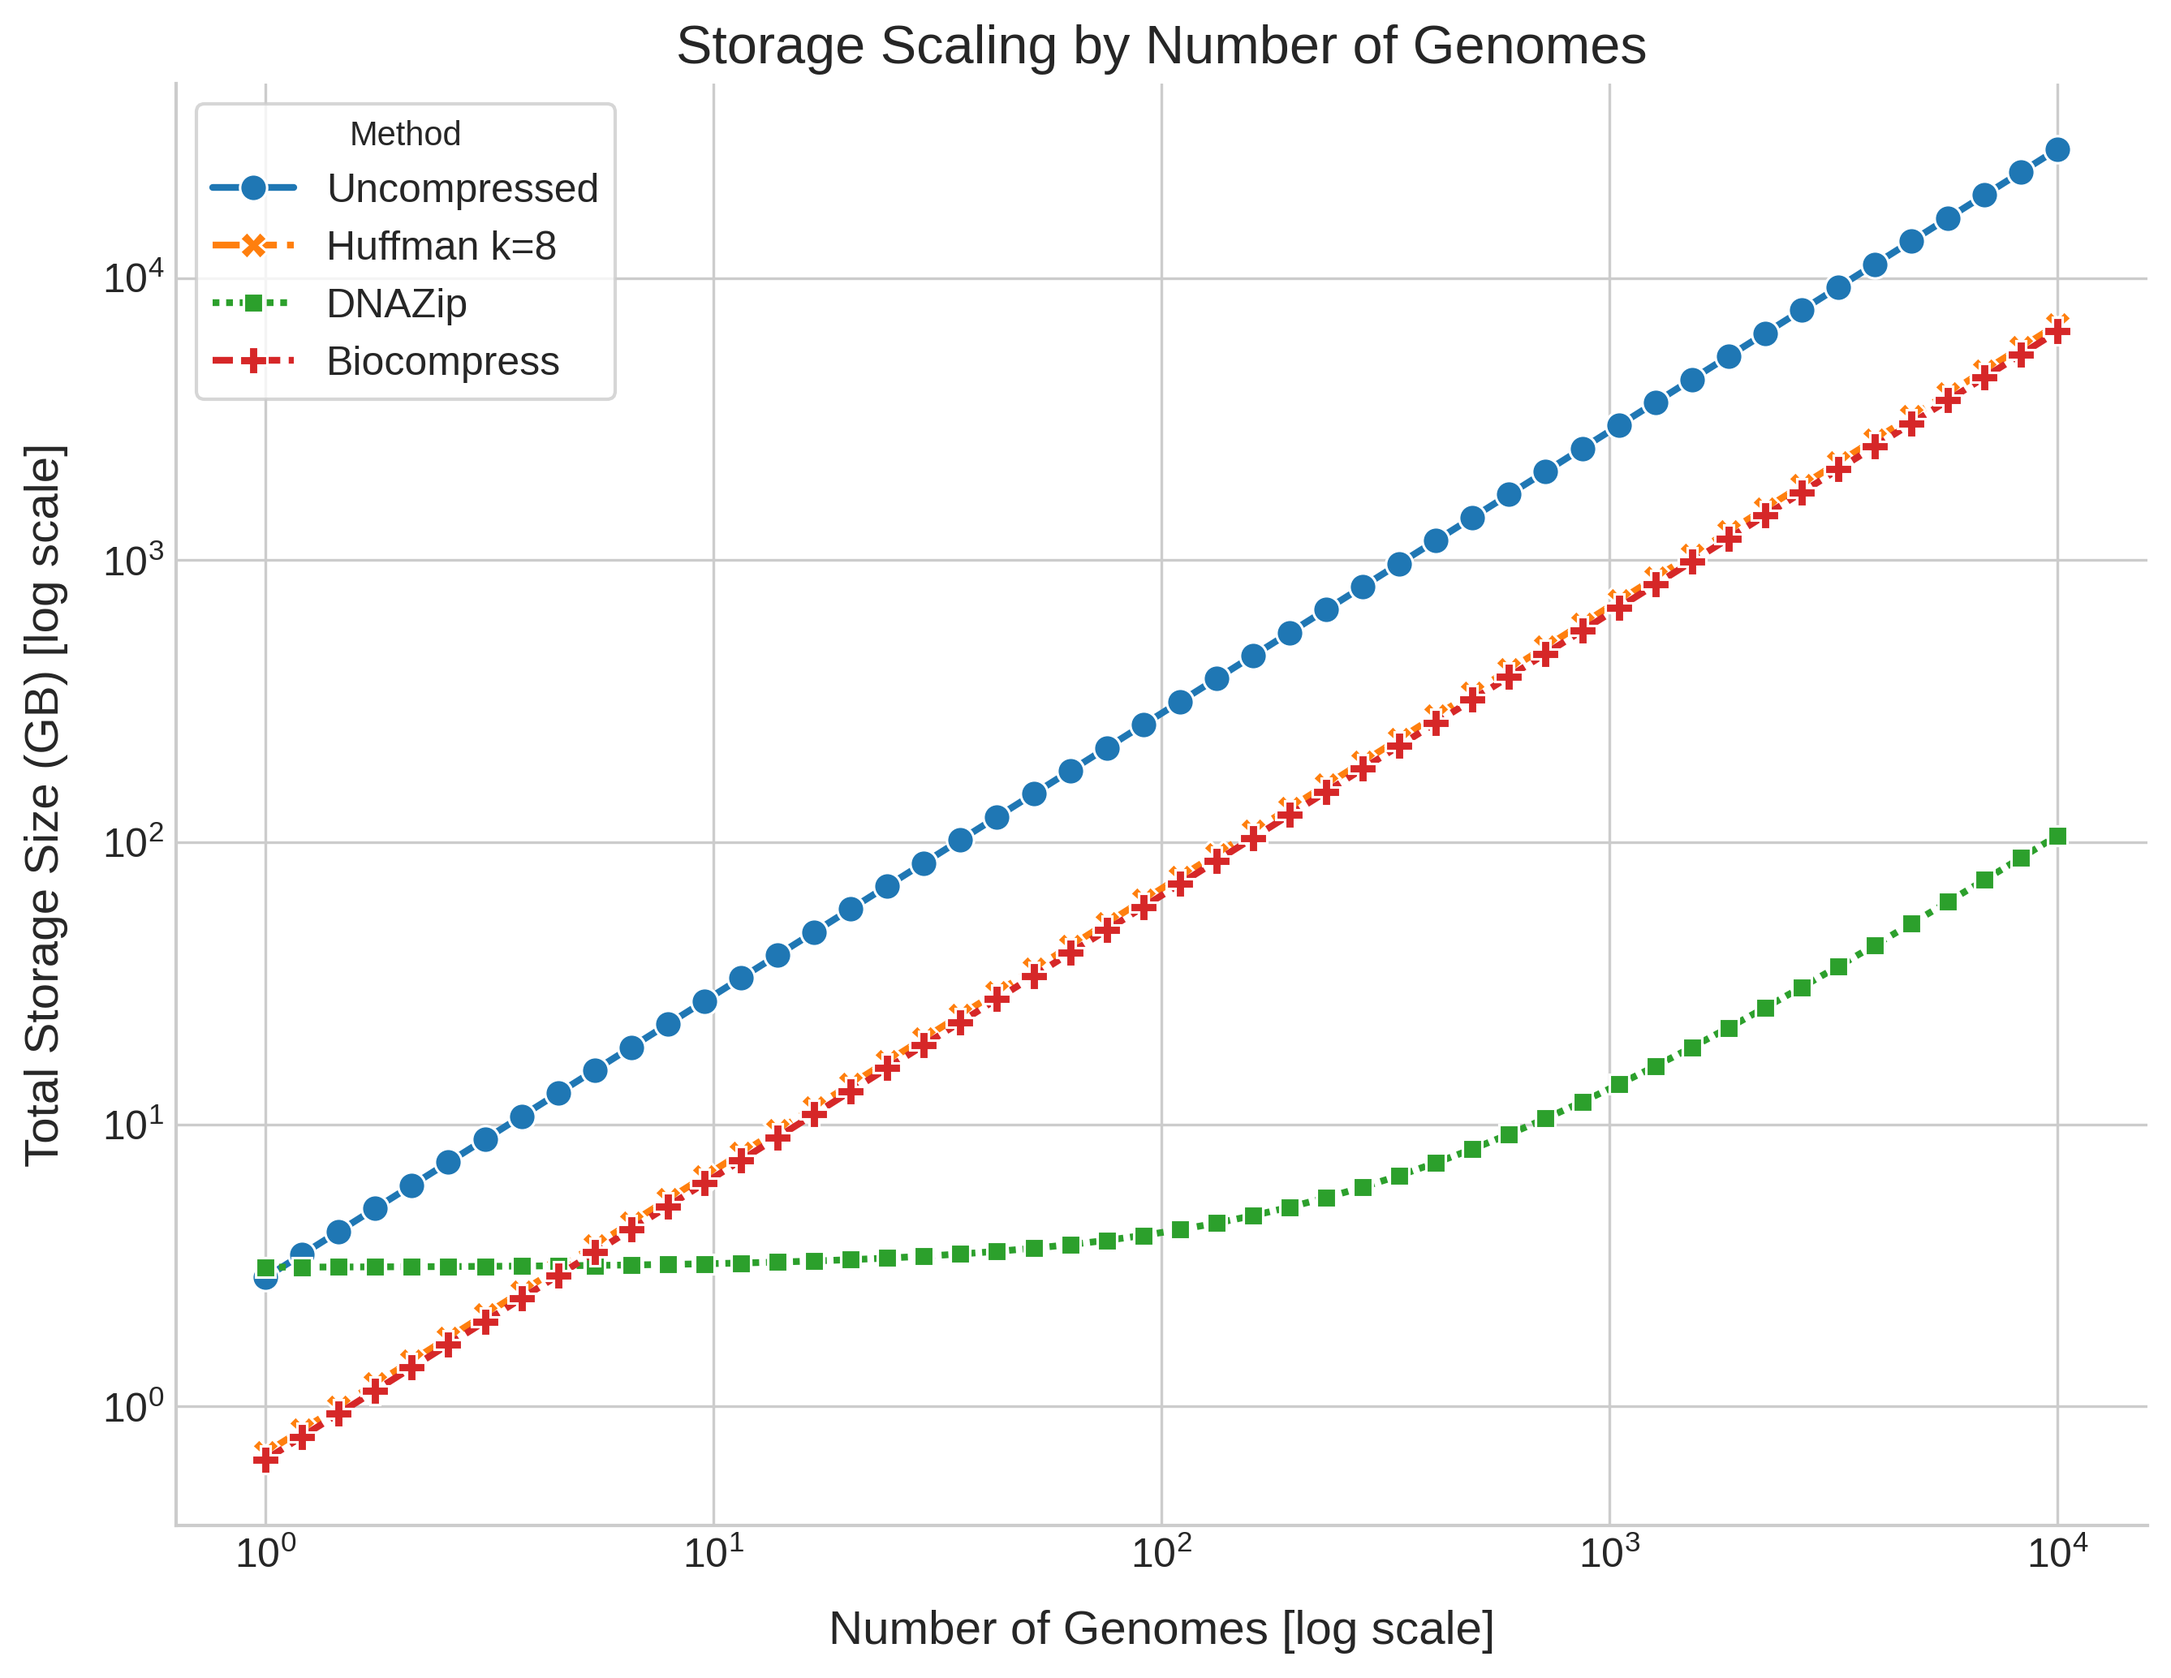
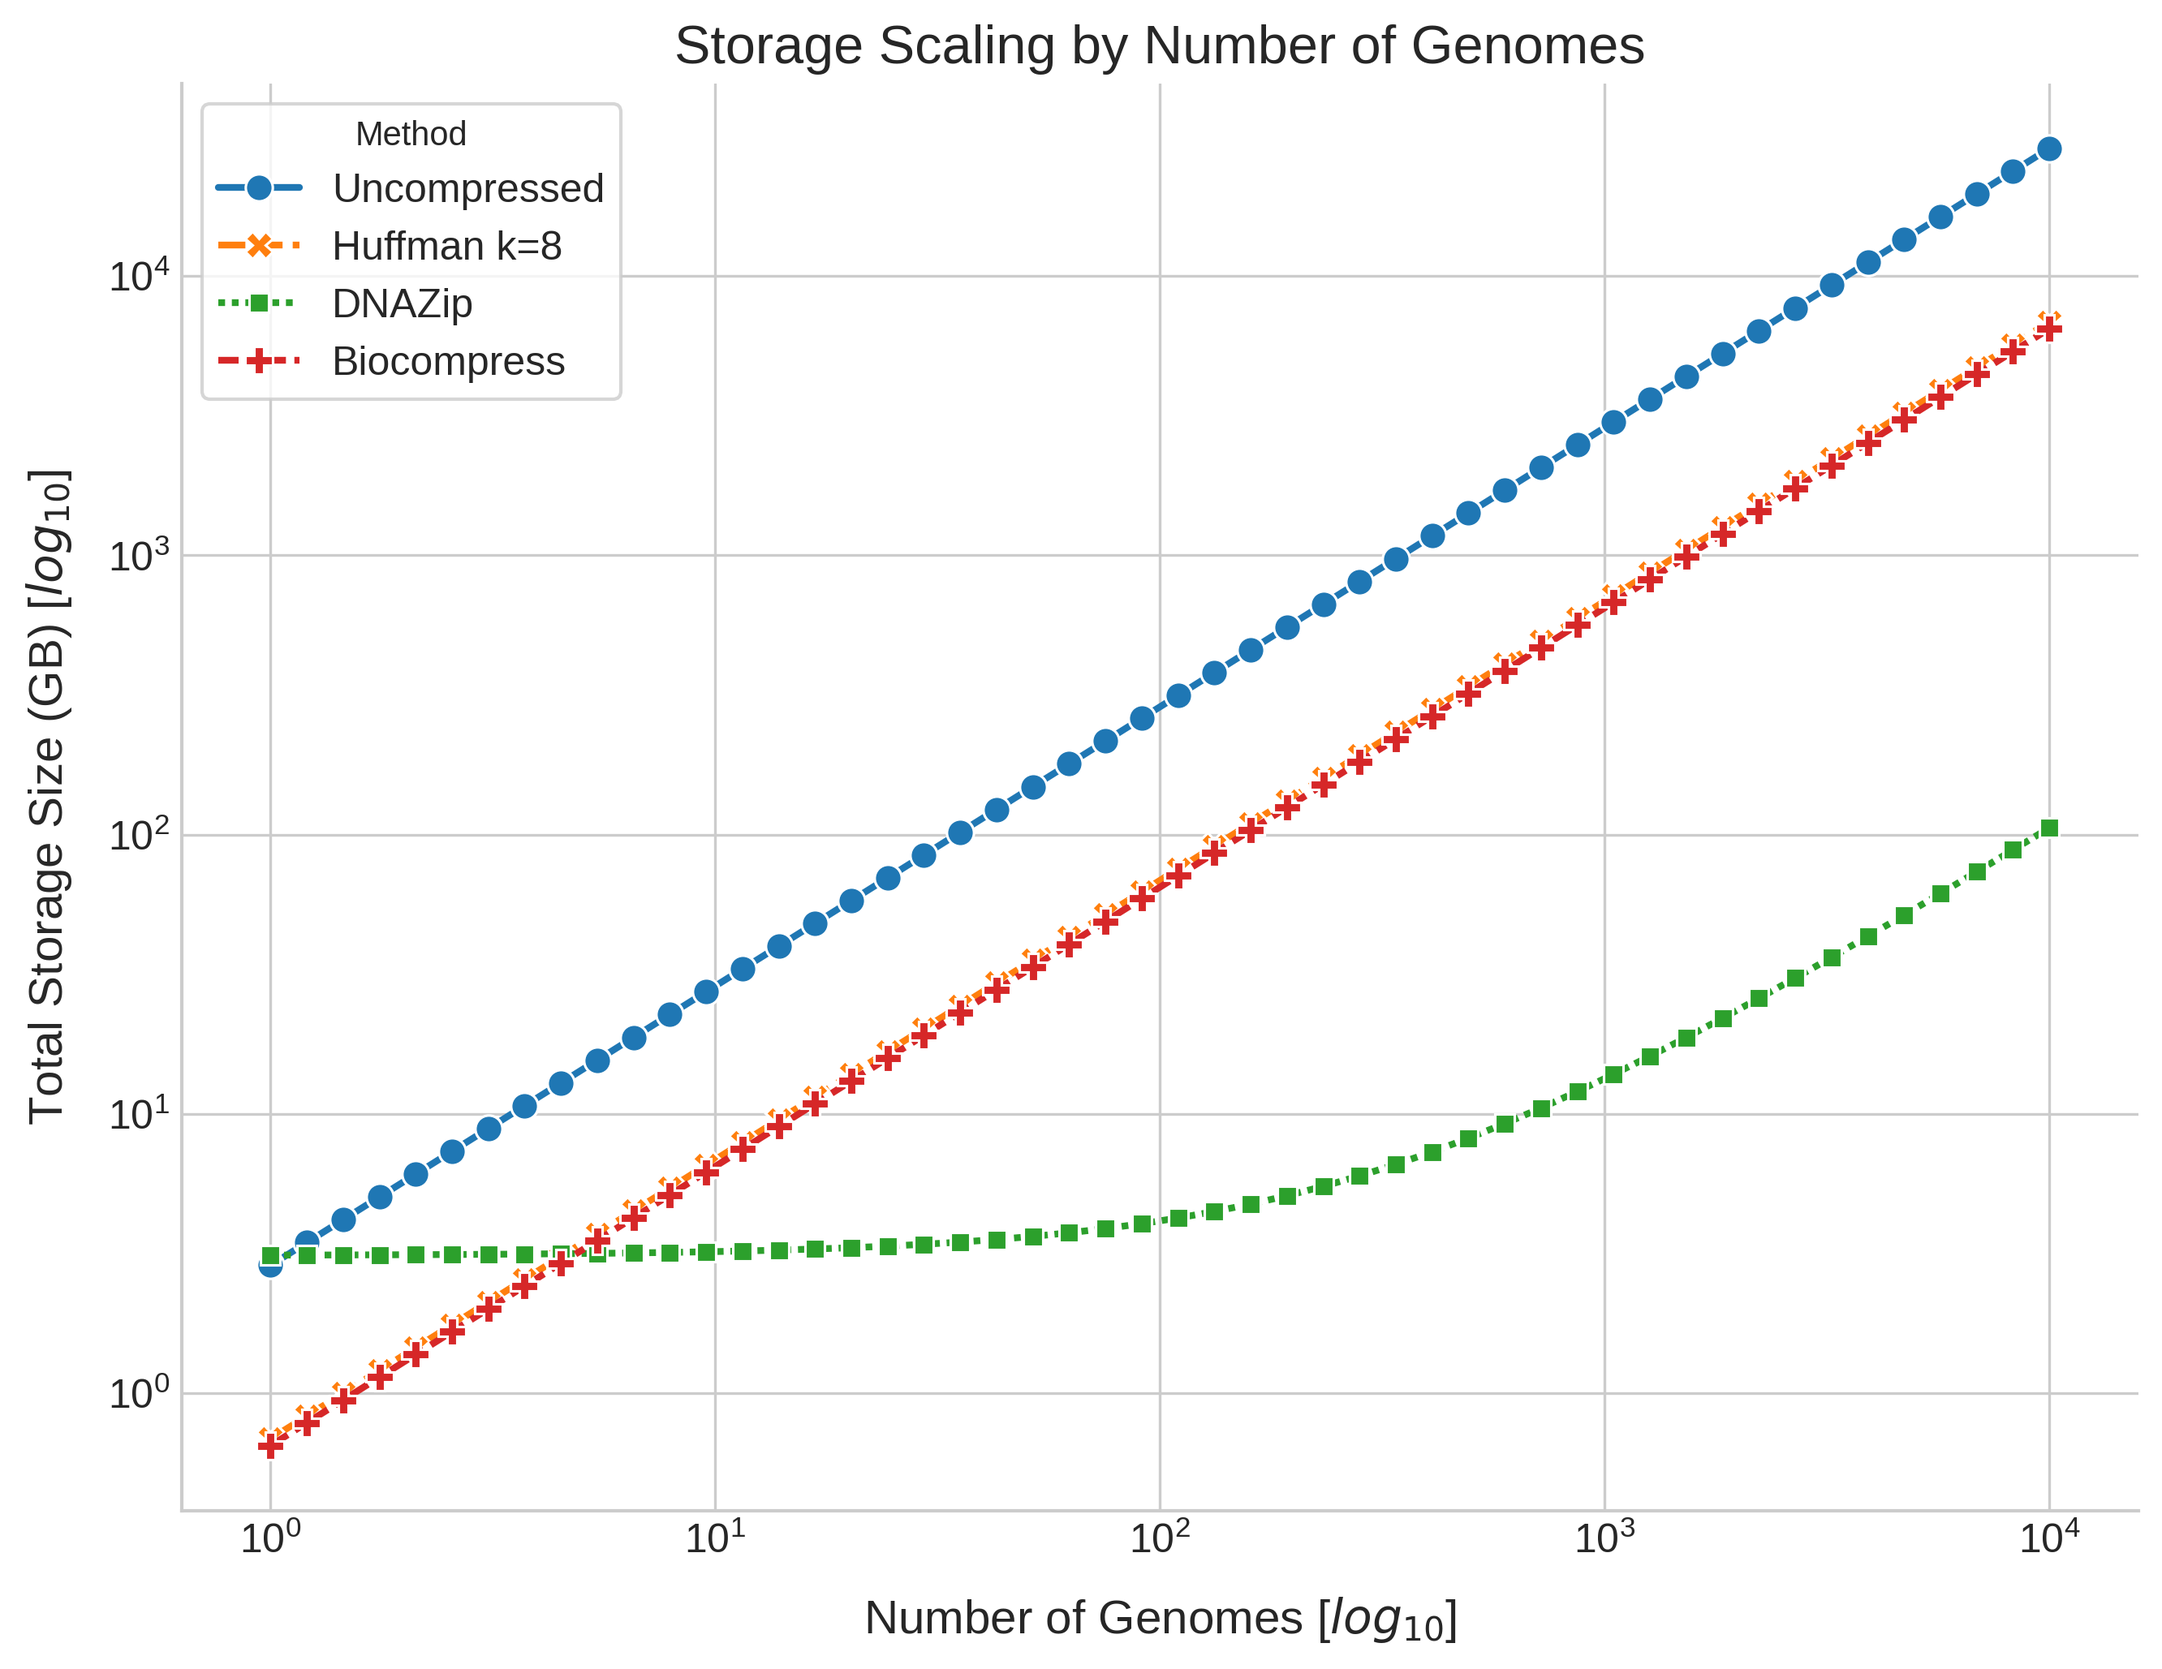
Adding log_10 in axis

diff --git a/huffman_coding/code/plot_huffman.py b/huffman_coding/code/plot_huffman.py
@@ -481,8 +481,8 @@ def plot_scaling_comparison_log(
     
     ax.set_title('Storage Scaling by Number of Genomes', fontsize=16)
     
-    ax.set_xlabel('Number of Genomes [log scale]', fontsize=14, labelpad=10)
-    ax.set_ylabel('Total Storage Size (GB) [log scale]', fontsize=14, labelpad=10)
+    ax.set_xlabel('Number of Genomes [$log_{10}$]', fontsize=14, labelpad=10)
+    ax.set_ylabel('Total Storage Size (GB) [$log_{10}$]', fontsize=14, labelpad=10)
     
     ax.set_xscale('log')
     ax.set_yscale('log')
